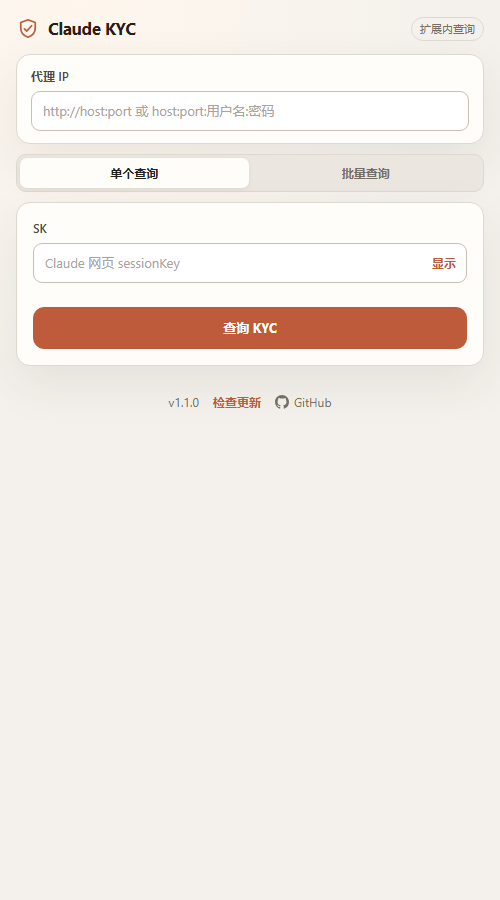
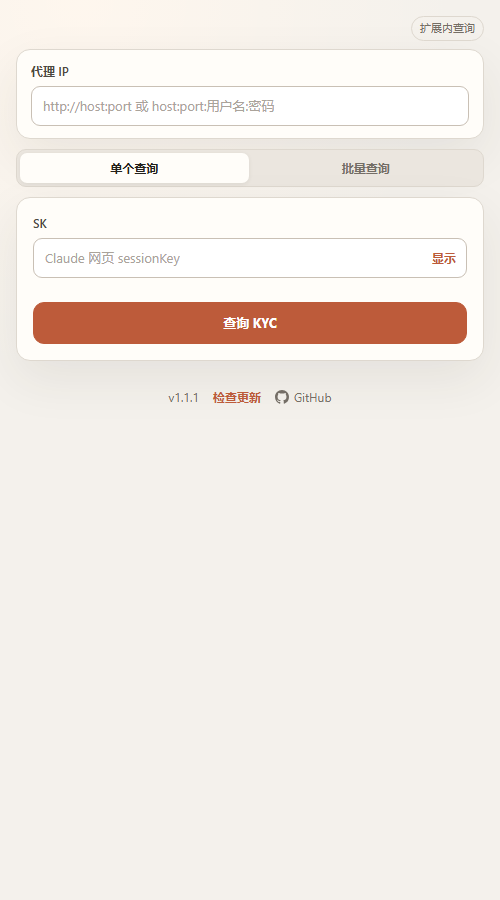
style: center result and batch table content

diff --git a/extension/styles.css b/extension/styles.css
@@ -331,13 +331,15 @@ select:disabled {
   background: #f7f3ed;
   color: var(--muted);
   font-weight: 600;
-  text-align: left;
+  text-align: center;
+  vertical-align: middle;
 }
 
 .batch-results td {
   padding: 7px 6px;
   border-bottom: 1px solid #eee8e0;
-  vertical-align: top;
+  text-align: center;
+  vertical-align: middle;
 }
 
 .batch-results tr:last-child td {
@@ -468,7 +470,7 @@ button:disabled {
 
 .result-top {
   display: flex;
-  align-items: flex-start;
+  align-items: center;
   justify-content: space-between;
   gap: 24px;
 }

diff --git a/extension/sidepanel.html b/extension/sidepanel.html
@@ -130,7 +130,7 @@
     </section>
 
     <footer class="footer">
-      <span>v<span id="extension-version">1.1.0</span></span>
+      <span>v<span id="extension-version">1.1.1</span></span>
       <button id="check-update" class="inline-action" type="button">检查更新</button>
       <a class="footer-link" href="https://github.com/DouDOU-start/claude-kyc-extension"
         target="_blank" rel="noopener noreferrer" aria-label="GitHub repository">

diff --git a/docs/RELEASE.md b/docs/RELEASE.md
@@ -2,20 +2,20 @@
 
 ## Versioning
 
-Set the semantic version in `extension/manifest.json`, for example `1.1.0`. The Git tag must be `v` plus the same version: `v1.1.0`.
+Set the semantic version in `extension/manifest.json`, for example `1.1.1`. The Git tag must be `v` plus the same version: `v1.1.1`.
 
 ## Publish with GitHub Actions
 
 ```sh
-git tag -a v1.1.0 -m "v1.1.0"
-git push origin v1.1.0
+git tag -a v1.1.1 -m "v1.1.1"
+git push origin v1.1.1
 ```
 
 The release workflow:
 
 1. validates that the tag matches `extension/manifest.json`;
 2. runs the Node tests;
-3. creates `claude-kyc-extension-v1.1.0.zip` with `manifest.json` at the ZIP root;
+3. creates `claude-kyc-extension-v1.1.1.zip` with `manifest.json` at the ZIP root;
 4. creates `SHA256SUMS.txt`;
 5. publishes a GitHub Release with both assets.
 
@@ -27,8 +27,8 @@ If Actions is unavailable:
 
 ```powershell
 New-Item -ItemType Directory -Force dist | Out-Null
-Compress-Archive -Path extension\* -DestinationPath dist\claude-kyc-extension-v1.1.0.zip -Force
-(Get-FileHash dist\claude-kyc-extension-v1.1.0.zip -Algorithm SHA256).Hash
+Compress-Archive -Path extension\* -DestinationPath dist\claude-kyc-extension-v1.1.1.zip -Force
+(Get-FileHash dist\claude-kyc-extension-v1.1.1.zip -Algorithm SHA256).Hash
 ```
 
 Upload the ZIP to a non-draft GitHub Release. The extension's update checker uses the latest published release tag.

diff --git a/CHANGELOG.md b/CHANGELOG.md
@@ -1,5 +1,9 @@
 # Changelog
 
+## 1.1.1
+
+- Center batch result headers and cells horizontally and vertically.
+
 ## 1.1.0
 
 - Add batch SK verification with a fixed concurrency of one.
